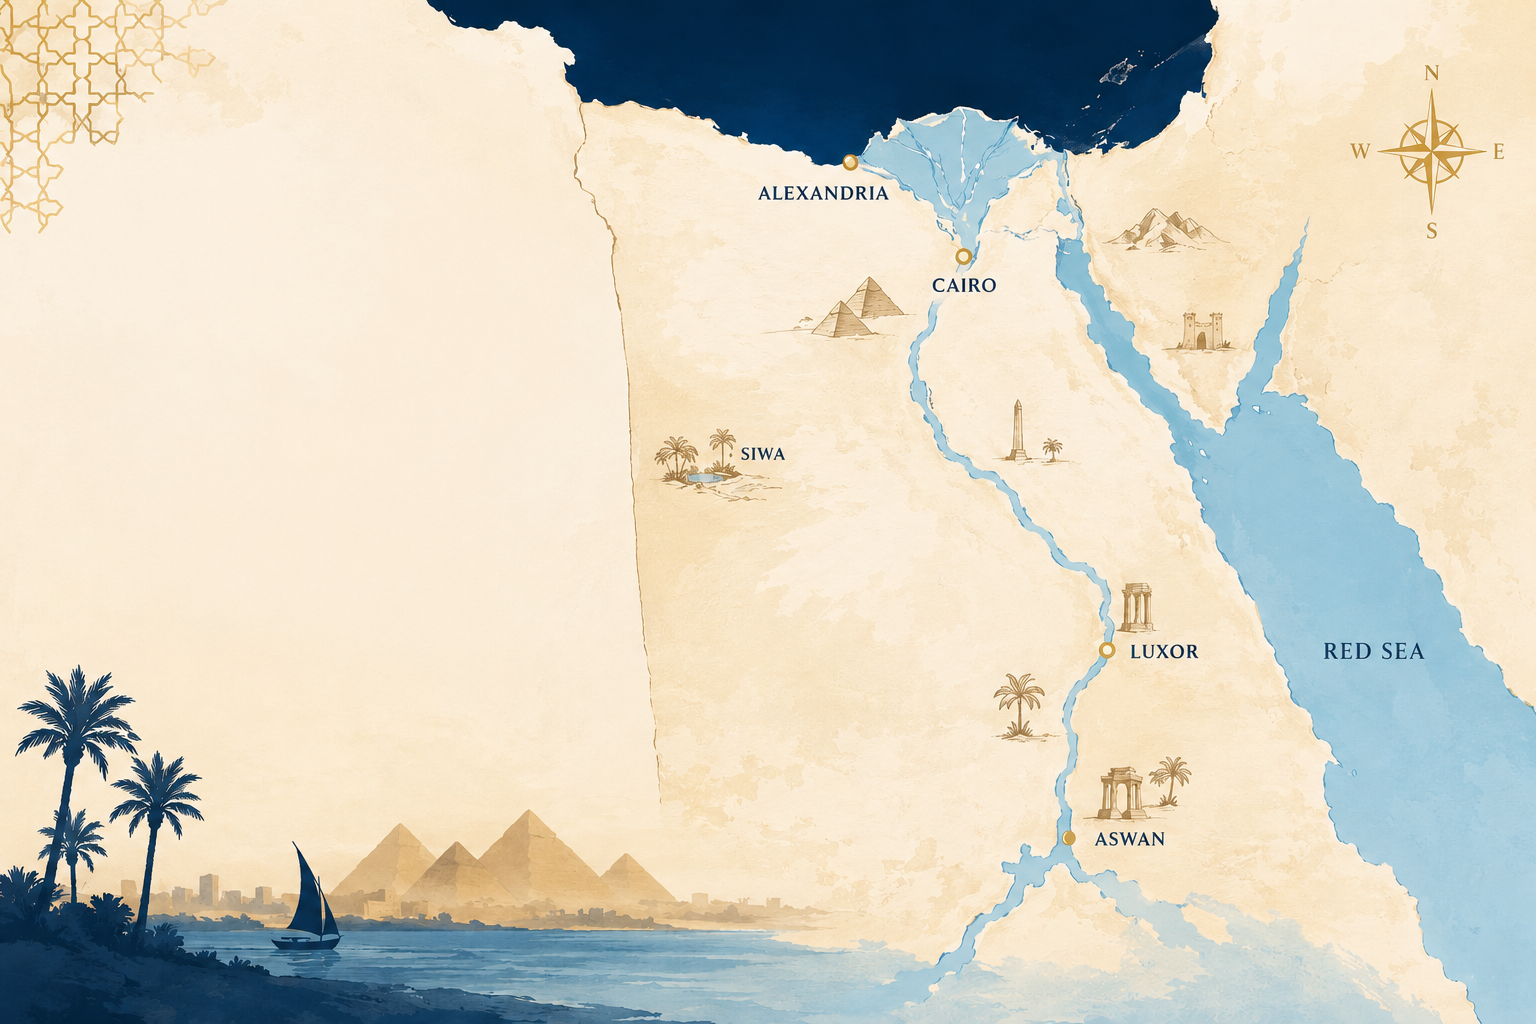
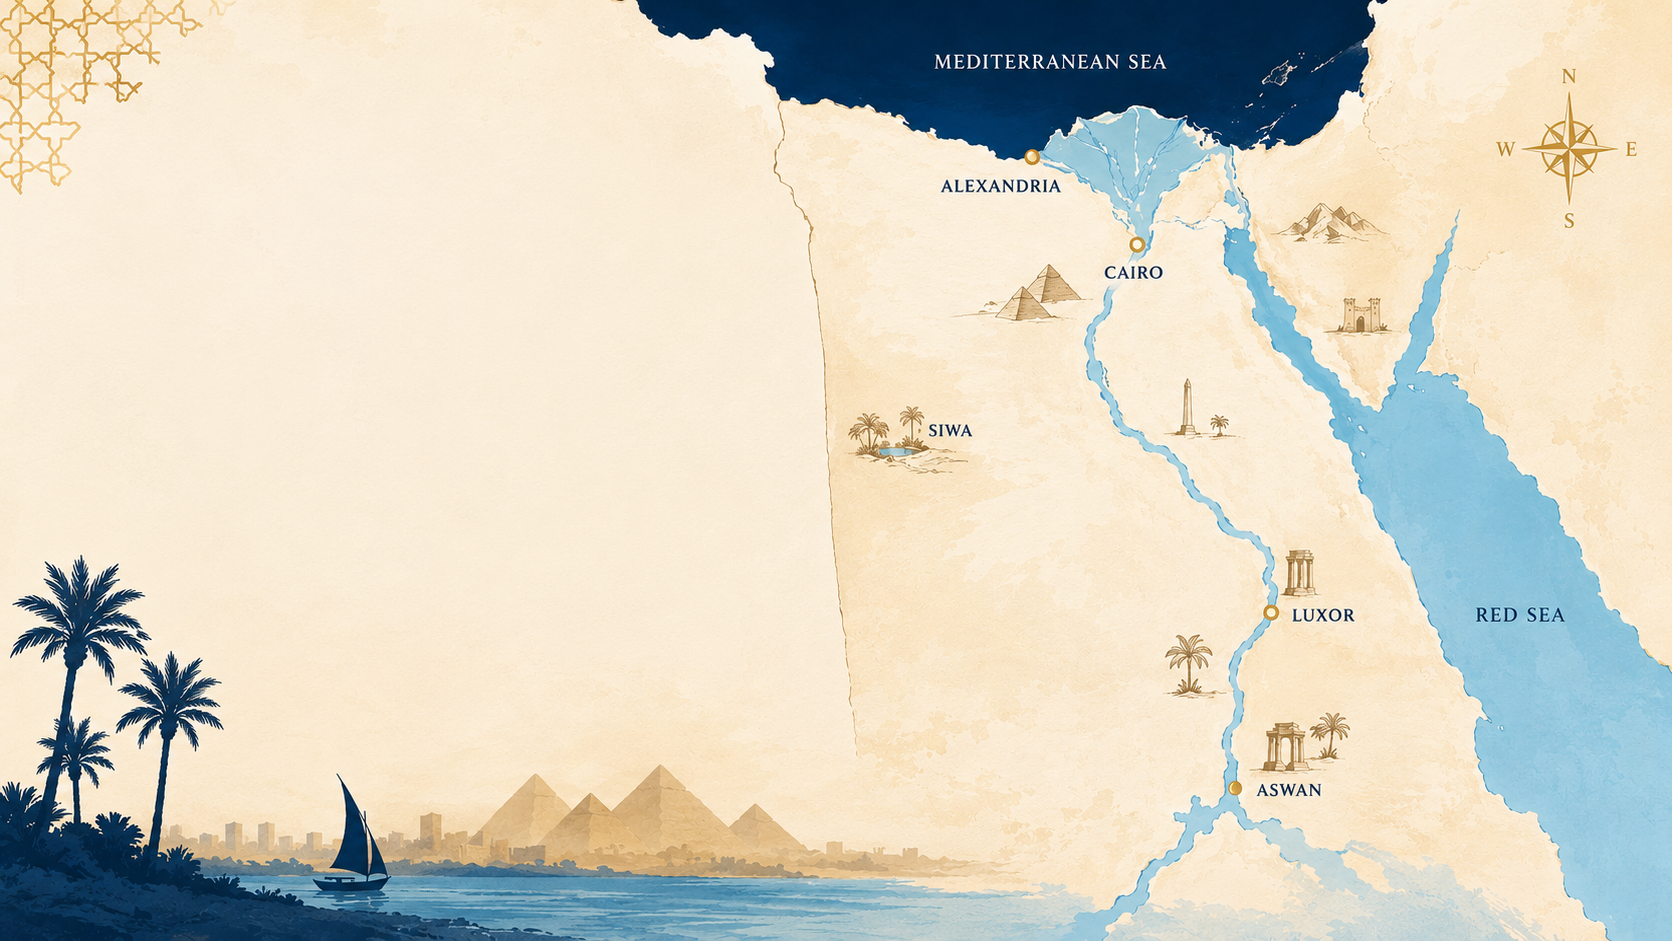
yaraaaaab

diff --git a/Khemet/src/pages/Home.jsx b/Khemet/src/pages/Home.jsx
@@ -3,6 +3,7 @@ import Footer from "../components/Footer";
 import Card from "../components/Card";
 import { Link } from "react-router-dom";
 import { useAuth } from "../context/AuthContext";
+import hero from "../assets/Hero.png"
 import '../index.css'
 
 export default function Home() {
@@ -82,20 +83,43 @@ export default function Home() {
 
       <div className="w">
       <h2>Why KHEMET ?</h2>
-      <div class="why">
-        <div class="c">
-          <div class="sv">
-          <svg width="34px" height="34px" viewBox="0 0 24 24" fill="none" xmlns="http://www.w3.org/2000/svg"><g id="SVGRepo_bgCarrier" stroke-width="0"></g><g id="SVGRepo_tracerCarrier" stroke-linecap="round" stroke-linejoin="round"></g><g id="SVGRepo_iconCarrier"> <path d="M12 21C15.5 17.4 19 14.1764 19 10.2C19 6.22355 15.866 3 12 3C8.13401 3 5 6.22355 5 10.2C5 14.1764 8.5 17.4 12 21Z" stroke="#C9A84C" stroke-width="2" stroke-linecap="round" stroke-linejoin="round"></path> <path d="M12 12C13.1046 12 14 11.1046 14 10C14 8.89543 13.1046 8 12 8C10.8954 8 10 8.89543 10 10C10 11.1046 10.8954 12 12 12Z" stroke="#C9A84C" stroke-width="2" stroke-linecap="round" stroke-linejoin="round"></path> </g></svg>
-          </div>
-          <h4>Local Knowledge</h4>
-          <p>Every place is handpicked by locals who know Egypt beyond the tourist trail.</p>
-        </div>
+      <div className="why">
         <div className="c">
-          <div className="sv">
-            <svg width="44px" height="44px" viewBox="0 0 24 24" fill="none" xmlns="http://www.w3.org/2000/svg"><g id="SVGRepo_bgCarrier" stroke-width="0"></g><g id="SVGRepo_tracerCarrier" stroke-linecap="round" stroke-linejoin="round"></g><g id="SVGRepo_iconCarrier"> <circle cx="12" cy="8" r="2.5" stroke="#C9A84C" stroke-linecap="round"></circle> <path d="M13.7679 6.5C13.9657 6.15743 14.2607 5.88121 14.6154 5.70625C14.9702 5.5313 15.3689 5.46548 15.7611 5.51711C16.1532 5.56874 16.5213 5.73551 16.8187 5.99632C17.1161 6.25713 17.3295 6.60028 17.4319 6.98236C17.5342 7.36445 17.521 7.76831 17.3939 8.14288C17.2667 8.51745 17.0313 8.8459 16.7175 9.08671C16.4037 9.32751 16.0255 9.46985 15.6308 9.49572C15.2361 9.52159 14.8426 9.42983 14.5 9.23205" stroke="#C9A84C"></path> <path d="M10.2321 6.5C10.0343 6.15743 9.73935 5.88121 9.38458 5.70625C9.02981 5.5313 8.63113 5.46548 8.23895 5.51711C7.84677 5.56874 7.47871 5.73551 7.18131 5.99632C6.88391 6.25713 6.67053 6.60028 6.56815 6.98236C6.46577 7.36445 6.47899 7.76831 6.60614 8.14288C6.73329 8.51745 6.96866 8.8459 7.28248 9.08671C7.5963 9.32751 7.97448 9.46985 8.36919 9.49572C8.76391 9.52159 9.15743 9.42983 9.5 9.23205" stroke="#C9A84C"></path> <path d="M12 12.5C16.0802 12.5 17.1335 15.8022 17.4054 17.507C17.4924 18.0524 17.0523 18.5 16.5 18.5H7.5C6.94771 18.5 6.50763 18.0524 6.59461 17.507C6.86649 15.8022 7.91976 12.5 12 12.5Z" stroke="#C9A84C" stroke-linecap="round"></path> <path d="M19.2965 15.4162L18.8115 15.5377L19.2965 15.4162ZM13.0871 12.5859L12.7179 12.2488L12.0974 12.9283L13.0051 13.0791L13.0871 12.5859ZM17.1813 16.5L16.701 16.639L16.8055 17H17.1813V16.5ZM15.5 12C16.5277 12 17.2495 12.5027 17.7783 13.2069C18.3177 13.9253 18.6344 14.8306 18.8115 15.5377L19.7816 15.2948C19.5904 14.5315 19.2329 13.4787 18.578 12.6065C17.9126 11.7203 16.9202 11 15.5 11V12ZM13.4563 12.923C13.9567 12.375 14.6107 12 15.5 12V11C14.2828 11 13.3736 11.5306 12.7179 12.2488L13.4563 12.923ZM13.0051 13.0791C15.3056 13.4614 16.279 15.1801 16.701 16.639L17.6616 16.361C17.1905 14.7326 16.019 12.5663 13.1691 12.0927L13.0051 13.0791ZM18.395 16H17.1813V17H18.395V16ZM18.8115 15.5377C18.8653 15.7526 18.7075 16 18.395 16V17C19.2657 17 20.0152 16.2277 19.7816 15.2948L18.8115 15.5377Z" fill="#C9A84C"></path> <path d="M10.9129 12.5859L10.9949 13.0791L11.9026 12.9283L11.2821 12.2488L10.9129 12.5859ZM4.70343 15.4162L5.18845 15.5377L4.70343 15.4162ZM6.81868 16.5V17H7.19453L7.29898 16.639L6.81868 16.5ZM8.49999 12C9.38931 12 10.0433 12.375 10.5436 12.923L11.2821 12.2488C10.6264 11.5306 9.71723 11 8.49999 11V12ZM5.18845 15.5377C5.36554 14.8306 5.68228 13.9253 6.22167 13.2069C6.75048 12.5027 7.47226 12 8.49999 12V11C7.0798 11 6.08743 11.7203 5.42199 12.6065C4.76713 13.4787 4.40955 14.5315 4.21841 15.2948L5.18845 15.5377ZM5.60498 16C5.29247 16 5.13465 15.7526 5.18845 15.5377L4.21841 15.2948C3.98477 16.2277 4.73424 17 5.60498 17V16ZM6.81868 16H5.60498V17H6.81868V16ZM7.29898 16.639C7.72104 15.1801 8.69435 13.4614 10.9949 13.0791L10.8309 12.0927C7.98101 12.5663 6.8095 14.7326 6.33838 16.361L7.29898 16.639Z" fill="#C9A84C"></path> </g></svg>
+            <div className="sv">
+              <div className="svg">
+          <svg width="33px" height="34px" viewBox="0 0 24 24" fill="none" xmlns="http://www.w3.org/2000/svg"><g id="SVGRepo_bgCarrier" strokeWidth="0"></g><g id="SVGRepo_tracerCarrier" strokeLinecap="round" strokeLinejoin="round"></g><g id="SVGRepo_iconCarrier"> <path d="M12 21C15.5 17.4 19 14.1764 19 10.2C19 6.22355 15.866 3 12 3C8.13401 3 5 6.22355 5 10.2C5 14.1764 8.5 17.4 12 21Z" stroke="#C9A84C" strokeWidth="2" strokeLinecap="round" strokeLinejoin="round"></path> <path d="M12 12C13.1046 12 14 11.1046 14 10C14 8.89543 13.1046 8 12 8C10.8954 8 10 8.89543 10 10C10 11.1046 10.8954 12 12 12Z" stroke="#C9A84C" strokeWidth="2" strokeLinecap="round" strokeLinejoin="round"></path> </g></svg>
+         </div>
+              </div>
+          <h4>Curated Experiences</h4>
+          <p>Every place is handpicked by locals who know Egypt beyond the tourist trail.</p>
           </div>
+
+          <div className="c">
+            <div className="sv">
+              <div className="svg">
+              <svg fill="#C9A84C" width="34px" height="34px" viewBox="0 0 256 256" id="Flat" xmlns="http://www.w3.org/2000/svg" stroke="#C9A84C" strokeWidth="4.096"><g id="SVGRepo_bgCarrier" strokeWidth="0"></g><g id="SVGRepo_tracerCarrier" strokeLinecap="round" strokeLinejoin="round"></g><g id="SVGRepo_iconCarrier"> <path d="M197.00781,132.74023l-52.16015-19.21777a3.99186,3.99186,0,0,1-2.3711-2.37012L123.25977,58.99219a11.99948,11.99948,0,0,0-22.51954,0L81.52246,111.15234a3.99186,3.99186,0,0,1-2.37012,2.3711L26.99219,132.74023a11.99948,11.99948,0,0,0,0,22.51954l52.16015,19.21777a3.99186,3.99186,0,0,1,2.3711,2.37012l19.21679,52.16015a11.99948,11.99948,0,0,0,22.51954,0l19.21679-52.16015h.001a3.99186,3.99186,0,0,1,2.37012-2.3711l52.16015-19.21679a11.99948,11.99948,0,0,0,0-22.51954Zm-2.76562,15.01368L142.082,166.96973a11.98076,11.98076,0,0,0-7.11133,7.1123l-19.21679,52.16016a4.00076,4.00076,0,0,1-7.50782,0L89.03027,174.082a11.98076,11.98076,0,0,0-7.1123-7.11133L29.75781,147.75391a4.00076,4.00076,0,0,1,0-7.50782L81.918,121.03027a11.98076,11.98076,0,0,0,7.11133-7.1123l19.21679-52.16016a4.00076,4.00076,0,0,1,7.50782,0L134.96973,113.918a11.98076,11.98076,0,0,0,7.1123,7.11133l52.16016,19.21679a4.00076,4.00076,0,0,1,0,7.50782ZM148,40a4.0002,4.0002,0,0,1,4-4h20V16a4,4,0,0,1,8,0V36h20a4,4,0,0,1,0,8H180V64a4,4,0,0,1-8,0V44H152A4.0002,4.0002,0,0,1,148,40Zm96,48a4.0002,4.0002,0,0,1-4,4H228v12a4,4,0,0,1-8,0V92H208a4,4,0,0,1,0-8h12V72a4,4,0,0,1,8,0V84h12A4.0002,4.0002,0,0,1,244,88Z"></path> </g></svg></div>
+              
+         </div>
+          <h4>Smart Trip Planning</h4>
+          <p>Generate and customize trips tailored to your interests.</p>
+          </div>
+          
+        <div className="c">
+            <div className="sv">
+              <div className="svg">
+            <svg width="44px" height="44px" viewBox="0 0 24 24" fill="none" xmlns="http://www.w3.org/2000/svg"><g id="SVGRepo_bgCarrier" strokeWidth="0"></g><g id="SVGRepo_tracerCarrier" strokeLinecap="round" strokeLinejoin="round"></g><g id="SVGRepo_iconCarrier"> <circle cx="12" cy="8" r="2.5" stroke="#C9A84C" strokeLinecap="round"></circle> <path d="M13.7679 6.5C13.9657 6.15743 14.2607 5.88121 14.6154 5.70625C14.9702 5.5313 15.3689 5.46548 15.7611 5.51711C16.1532 5.56874 16.5213 5.73551 16.8187 5.99632C17.1161 6.25713 17.3295 6.60028 17.4319 6.98236C17.5342 7.36445 17.521 7.76831 17.3939 8.14288C17.2667 8.51745 17.0313 8.8459 16.7175 9.08671C16.4037 9.32751 16.0255 9.46985 15.6308 9.49572C15.2361 9.52159 14.8426 9.42983 14.5 9.23205" stroke="#C9A84C"></path> <path d="M10.2321 6.5C10.0343 6.15743 9.73935 5.88121 9.38458 5.70625C9.02981 5.5313 8.63113 5.46548 8.23895 5.51711C7.84677 5.56874 7.47871 5.73551 7.18131 5.99632C6.88391 6.25713 6.67053 6.60028 6.56815 6.98236C6.46577 7.36445 6.47899 7.76831 6.60614 8.14288C6.73329 8.51745 6.96866 8.8459 7.28248 9.08671C7.5963 9.32751 7.97448 9.46985 8.36919 9.49572C8.76391 9.52159 9.15743 9.42983 9.5 9.23205" stroke="#C9A84C"></path> <path d="M12 12.5C16.0802 12.5 17.1335 15.8022 17.4054 17.507C17.4924 18.0524 17.0523 18.5 16.5 18.5H7.5C6.94771 18.5 6.50763 18.0524 6.59461 17.507C6.86649 15.8022 7.91976 12.5 12 12.5Z" stroke="#C9A84C" strokeLinecap="round"></path> <path d="M19.2965 15.4162L18.8115 15.5377L19.2965 15.4162ZM13.0871 12.5859L12.7179 12.2488L12.0974 12.9283L13.0051 13.0791L13.0871 12.5859ZM17.1813 16.5L16.701 16.639L16.8055 17H17.1813V16.5ZM15.5 12C16.5277 12 17.2495 12.5027 17.7783 13.2069C18.3177 13.9253 18.6344 14.8306 18.8115 15.5377L19.7816 15.2948C19.5904 14.5315 19.2329 13.4787 18.578 12.6065C17.9126 11.7203 16.9202 11 15.5 11V12ZM13.4563 12.923C13.9567 12.375 14.6107 12 15.5 12V11C14.2828 11 13.3736 11.5306 12.7179 12.2488L13.4563 12.923ZM13.0051 13.0791C15.3056 13.4614 16.279 15.1801 16.701 16.639L17.6616 16.361C17.1905 14.7326 16.019 12.5663 13.1691 12.0927L13.0051 13.0791ZM18.395 16H17.1813V17H18.395V16ZM18.8115 15.5377C18.8653 15.7526 18.7075 16 18.395 16V17C19.2657 17 20.0152 16.2277 19.7816 15.2948L18.8115 15.5377Z" fill="#C9A84C"></path> <path d="M10.9129 12.5859L10.9949 13.0791L11.9026 12.9283L11.2821 12.2488L10.9129 12.5859ZM4.70343 15.4162L5.18845 15.5377L4.70343 15.4162ZM6.81868 16.5V17H7.19453L7.29898 16.639L6.81868 16.5ZM8.49999 12C9.38931 12 10.0433 12.375 10.5436 12.923L11.2821 12.2488C10.6264 11.5306 9.71723 11 8.49999 11V12ZM5.18845 15.5377C5.36554 14.8306 5.68228 13.9253 6.22167 13.2069C6.75048 12.5027 7.47226 12 8.49999 12V11C7.0798 11 6.08743 11.7203 5.42199 12.6065C4.76713 13.4787 4.40955 14.5315 4.21841 15.2948L5.18845 15.5377ZM5.60498 16C5.29247 16 5.13465 15.7526 5.18845 15.5377L4.21841 15.2948C3.98477 16.2277 4.73424 17 5.60498 17V16ZM6.81868 16H5.60498V17H6.81868V16ZM7.29898 16.639C7.72104 15.1801 8.69435 13.4614 10.9949 13.0791L10.8309 12.0927C7.98101 12.5663 6.8095 14.7326 6.33838 16.361L7.29898 16.639Z" fill="#C9A84C"></path> </g></svg>
+          </div>
+              </div>
           <h4>Community Driven</h4>
           <p>Travelers and residents share their favorite hidden gems together.</p>
+        </div>
+        <div className="c">
+            <div className="sv">
+              <div className="svg">
+           <svg width="45px" height="45px" viewBox="0 -0.5 25 25" fill="none" xmlns="http://www.w3.org/2000/svg" stroke="#C9A84C"><g id="SVGRepo_bgCarrier" strokeWidth="0"></g><g id="SVGRepo_tracerCarrier" strokeLinecap="round" strokeLinejoin="round"></g><g id="SVGRepo_iconCarrier"> <path fillRule="evenodd" clipRule="evenodd" d="M5.5 11.9999C5.50034 9.13745 7.52262 6.67387 10.3301 6.11575C13.1376 5.55763 15.9484 7.06041 17.0435 9.70506C18.1386 12.3497 17.2131 15.3997 14.833 16.9897C12.4528 18.5798 9.28087 18.2671 7.257 16.2429C6.13183 15.1175 5.49981 13.5912 5.5 11.9999Z" stroke="#C9A84C" strokeWidth="1.5" strokeLinecap="round" strokeLinejoin="round"></path> <path fillRule="evenodd" clipRule="evenodd" d="M11.5 14.9999L13.268 13.2429C13.7367 12.7781 14.0003 12.1454 14.0003 11.4854C14.0003 10.8253 13.7367 10.1926 13.268 9.72786C12.2894 8.75673 10.7106 8.75673 9.73199 9.72786C9.26328 10.1926 8.99963 10.8253 8.99963 11.4854C8.99963 12.1454 9.26328 12.7781 9.73199 13.2429L11.5 14.9999Z" stroke="#C9A84C" strokeWidth="1.5" strokeLinecap="round" strokeLinejoin="round"></path> <path d="M15.972 15.9999L19.5 18.9999" stroke="#C9A84C" strokeWidth="1.5" strokeLinecap="round" strokeLinejoin="round"></path> </g></svg> </div>
+              </div>
+          <h4>Designed for Fast Exploration</h4>
+          <p>A clean, fast interface that helps you find what you need without endless searching or clutter.</p>
         </div>
       </div>
 

diff --git a/Khemet/src/index.css b/Khemet/src/index.css
@@ -1,20 +1,26 @@
 *, *::before, *::after { box-sizing: border-box; margin: 0; padding: 0; }
 html { scroll-behavior: smooth; }
 
-body {
+.home {
   font-family: 'DM Sans', sans-serif;
   min-height: 100vh;
   background: #F5EDD7;
-}
-main{
   width: 100%;
-   padding-bottom:0px;
-   padding-top: 68px;
-}
+  padding-top: 65px;
 
+}
+#root{
+    width: 100%;
+    background: #F5EDD7;
+    font-family: 'DM Sans', sans-serif;
+    padding: 0px;
+    margin: 0px;
+}
 .hero{
   position: relative;
   height: 600px;
+  background: url('./assets/Hero.png') no-repeat center center/cover;
+  width: 100%;
 }
 .h{
   height: 600px;
@@ -181,9 +187,10 @@ main{
 border: #FDF8EE 1px solid;
 border-radius: 10px;
 background-color:#FDF8EE ;
-height: 180px;
+height: 195px;
 margin: 10px;
 width: 350px;
+padding: 5px;
 }
 .sv{
   display: flex;
@@ -192,14 +199,19 @@ width: 350px;
    justify-content: center;
    justify-items: center;
    padding: 5px;
+   margin-top: 7px;
   
 }
-.why svg{
+.svg{
   background-color: hsl(43, 60%, 77%,0.5);
   border-radius: 50%;
-  width: fit-content;
+  width: 50px;
   height: 50px;
-  align-items: center;
+  display: flex;
+   align-items: center;
+   align-content: center;
+   justify-content: center;
+   justify-items: center;
 }
 .why h4{
   text-align: center;

diff --git a/Khemet/src/css/navbar&footer.css b/Khemet/src/css/navbar&footer.css
@@ -23,7 +23,7 @@ header{
   z-index: 100;
   background: linear-gradient(135deg, #0A1F35 0%, #1B4F6B 100%);
   backdrop-filter: blur(12px);
-  border-bottom: 1px solid #C9A84C;
+  border-bottom: 0.1px solid hsl(44, 54%, 54%,0.5);
   padding: 0 1rem;
   height: 68px;
   display: flex;
@@ -65,7 +65,7 @@ header{
 }
 
 .links a:hover { 
-color: #C9A84C;
+color: #e3be56;
 }
 
 .logs {
@@ -115,6 +115,7 @@ border: 1px solid #1B4F6B;
     border: hsl(44, 54%, 54%,0.2) solid 0.3px;
     border-radius:30px;
     padding: 3px 20px;
+    margin: 0px 5px;
 }
 .loginbtn:hover{
      border: hsl(44, 54%, 54%,0.7) solid 0.3px;
@@ -122,14 +123,16 @@ border: 1px solid #1B4F6B;
 .signup{
     color: #133e54;
     border: hsl(45, 57%, 85%,0.4) 0.5px solid;
-    background-color:#C9A84C;
+    background-color:#e3be56;
      padding: 3px 30px;
      border-radius: 30px;
+      margin-left: 7px;
+      
 }
 .signup:hover{
-    border: hsl(45, 57%, 85%,0.7) 0.5px solid;
+    border: #C9A84C 0.5px solid;
    box-shadow: #C9A84C 0.5px 1px 5px;
-   background-color: #af9241;
+   background-color: #e5c261;
 }
 .profile{
     display: flex;
@@ -204,8 +207,3 @@ hr{
   color: #7A6040;
 }
 
-/* ── Layout spacing ── */
-main {
-  padding-top: 88px;   /* 68px navbar + 20px breathing room */
-  min-height: calc(100vh - 68px);
-}

diff --git a/Khemet/src/css/login.css b/Khemet/src/css/login.css
@@ -18,20 +18,7 @@
 *, *::before, *::after { box-sizing: border-box; margin: 0; padding: 0; }
 html { scroll-behavior: smooth; }
 
-body {
-  font-family: 'DM Sans', sans-serif;
-  min-height: 100vh;
-  display: flex;
-  flex-direction: column;
-  align-items: center;
-  justify-content: center;
-  background-color: #0A1F35;
-  background-image:
-    radial-gradient(ellipse 65% 45% at 10% 100%, #1B4F6B 0%, transparent 55%),
-    radial-gradient(ellipse 55% 40% at 90% 0%,   #1B4F6B 0%, transparent 55%);
-}
-
-main {
+.main-login {
   padding: 40px 24px;
   padding-bottom: 100px;
 }

diff --git a/Khemet/src/pages/Login.jsx b/Khemet/src/pages/Login.jsx
@@ -57,6 +57,7 @@ export default function Login() {
   };
 
   return (
+    <main className="main-login">
     <div className="LogIn container active" id="login">
       <form className="Log" onSubmit={handleLogin}>
         <h2>Welcome Back</h2>
@@ -103,6 +104,7 @@ export default function Login() {
           </h3>
         </div>
       </div>
-    </div>
+      </div>
+      </main>
   );
 }

diff --git a/Khemet/src/pages/Signup.jsx b/Khemet/src/pages/Signup.jsx
@@ -54,6 +54,7 @@ export default function Signup() {
   };
 
   return (
+    <main className="signup-main">
     <div className="Signup container" id="sign">
 
       {/* Image side */}
@@ -132,6 +133,7 @@ export default function Signup() {
         </div>
       </div>
 
-    </div>
+      </div>
+      </main>
   );
 }

diff --git a/Khemet/src/components/Navbar.jsx b/Khemet/src/components/Navbar.jsx
@@ -1,6 +1,7 @@
 import { Link, useNavigate } from "react-router-dom";
 import { useAuth } from "../context/AuthContext";
 import { useContext } from "react";
+import logo from"../assets/logo.png"
 
 function Navbar() {
   const { user, logout } = useAuth();
@@ -17,7 +18,7 @@ function Navbar() {
     <nav className="nav">
 
       <Link to="/" className="logo">
-        <img src="/assets/logo.png" alt="logo" width="40" height="50" />
+        <img src={logo} alt="logo" width="40" height="50" />
         <p>KHEMET</p>
       </Link>
 

diff --git a/Khemet/src/css/signup.css b/Khemet/src/css/signup.css
@@ -31,7 +31,7 @@ body {
     radial-gradient(ellipse 55% 40% at 90% 0%,   #1B4F6B 0%, transparent 55%);
 }
 
-main {
+.signup-main{
   padding: 40px 24px;
   padding-bottom: 100px;
 }

diff --git a/Khemet/src/App.css b/Khemet/src/App.css
@@ -1,3 +1,4 @@
+
 /* .counter {
   font-size: 16px;
   padding: 5px 10px;

diff --git a/Khemet/src/App.jsx b/Khemet/src/App.jsx
@@ -6,6 +6,7 @@ import Home from "./pages/Home";
 import Login from "./pages/Login";
 import Search from "./pages/Search";
 import Signup from "./pages/Signup";
+import "./App.css"
 
 function App() {
   return (